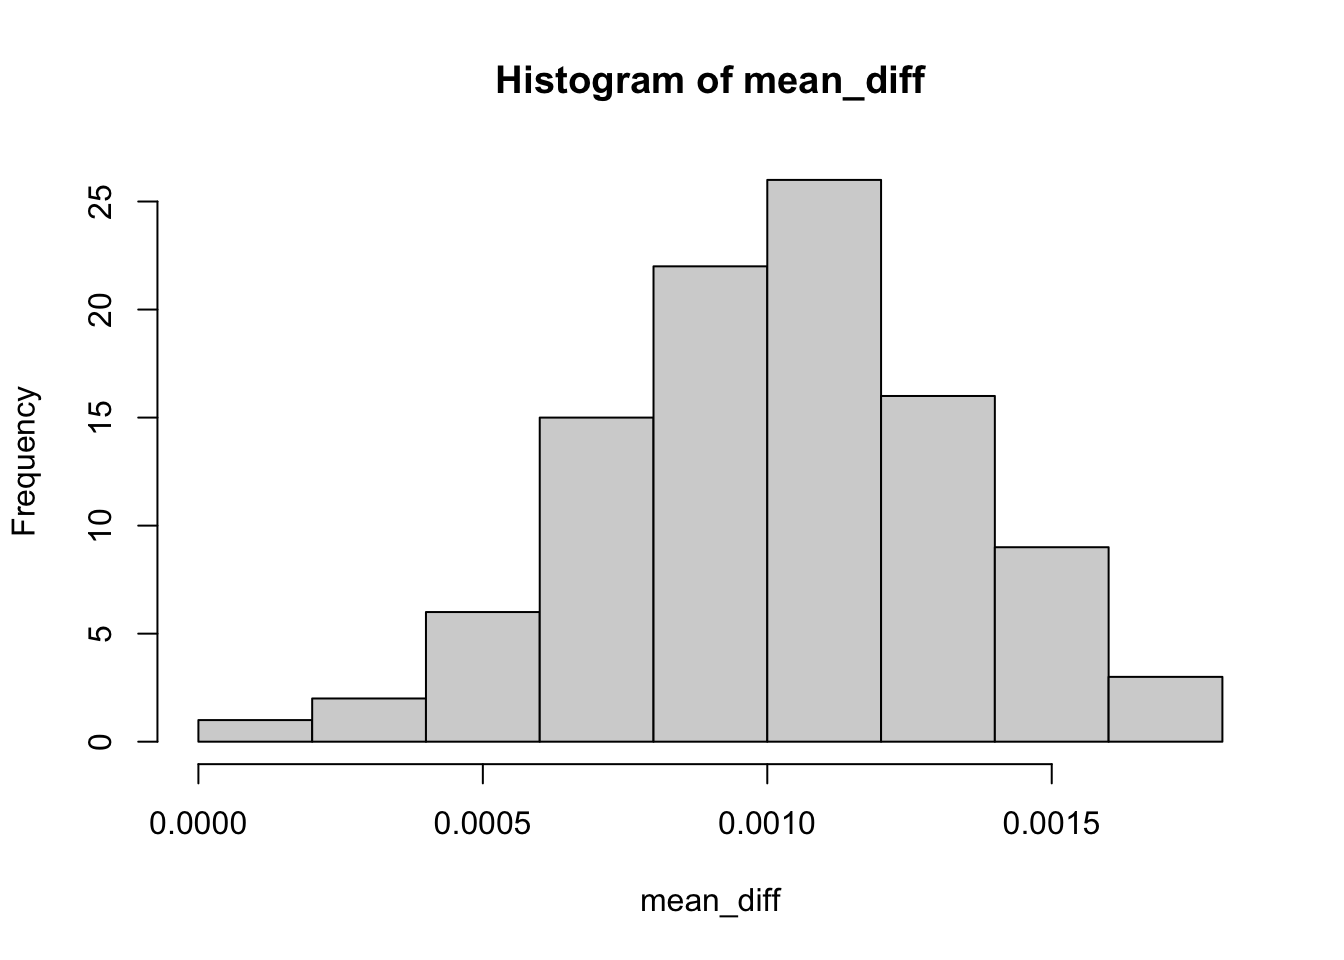
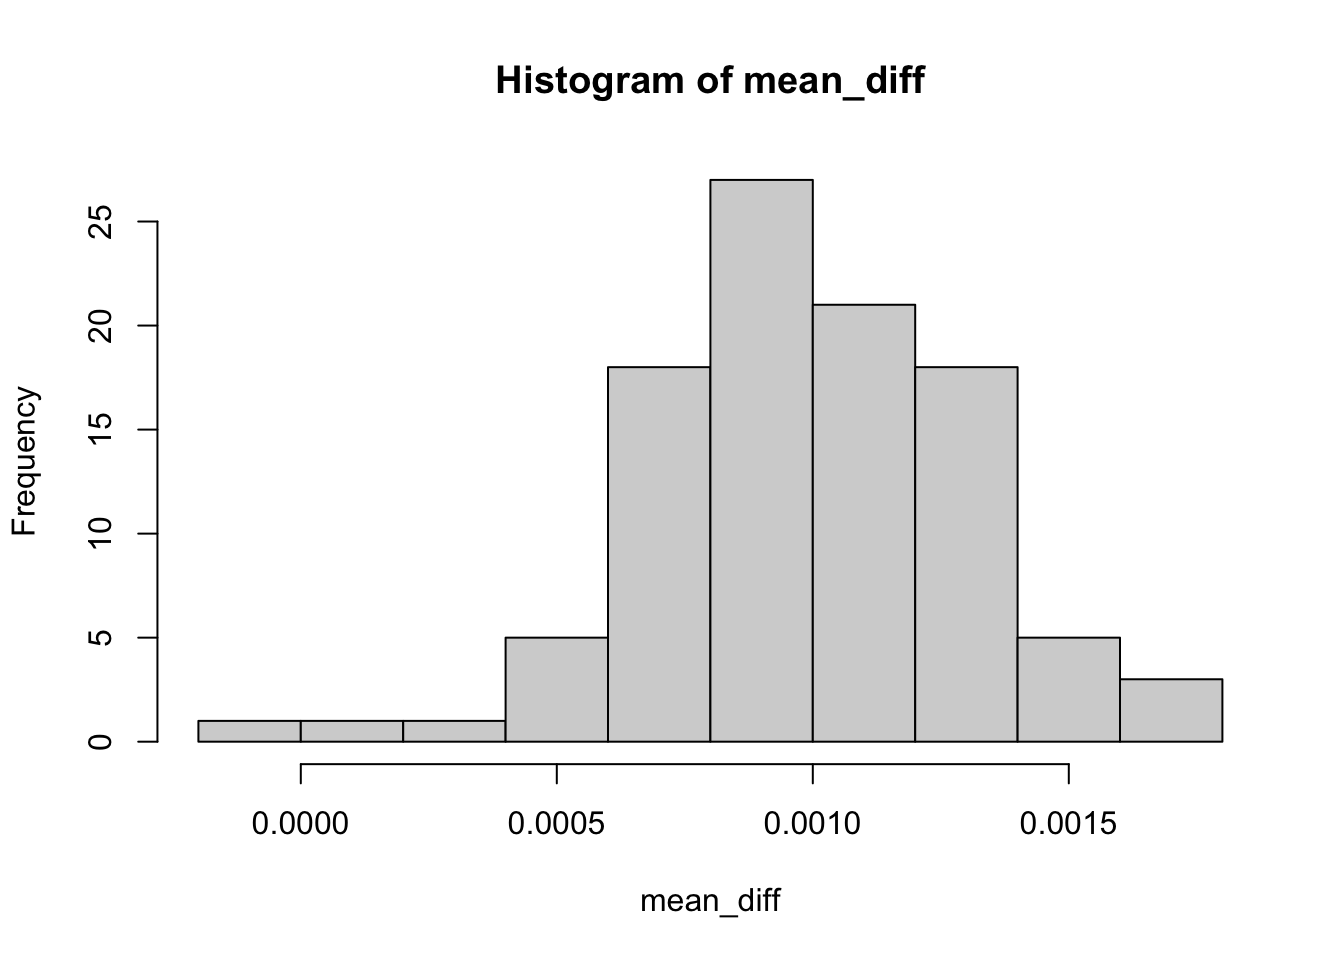
through end

diff --git a/content/post/2021-03-11-simulation.html b/content/post/2021-03-11-simulation.html
@@ -66,7 +66,7 @@ xfun::pkg_attach2(&quot;DiagrammeR&quot;)</code></pre>
 <p><span class="math display">\[Y \sim \mathrm{Binomial}(0.1)\]</span> To simulate one draw from this binomial distribution in R use:</p>
 <pre class="r"><code>control_y_1 &lt;- rbinom(n = 1, size = 1, prob = 0.1)
 control_y_1</code></pre>
-<pre><code>## [1] 0</code></pre>
+<pre><code>## [1] 1</code></pre>
 <p>Let’s walk through this code. <code>rbinom()</code> is the function to randomly (the <code>r</code> in <code>rbinom</code>) draw from the binomial distribution (<code>binom</code>). <code>n</code> is the number of draws for this simulation, <code>size</code> is the “number of trials”. Basically it means that you want the “success” outcome to be 1 and 0 otherwise. <code>prob</code> is the probability of “success”.</p>
 <p>It’s unlikely that we will run an A/B test with only one participant in the control group (this would be hilariously under-powered). So, let’s simulate a test with 2,000,000 draws<a href="#fn2" class="footnote-ref" id="fnref2"><sup>2</sup></a> and plot the results.</p>
 <pre class="r"><code># number of observations variable to ensure consistency across sims
@@ -123,7 +123,7 @@ plot_histogram(treatment_y, subtitle = &quot;Treatment Group&quot;)</code></pre>
 <p><img src="/post/2021-03-11-simulation_files/figure-html/unnamed-chunk-6-1.png" width="672" /></p>
 <p>Finally, we compare the means of the two groups:</p>
 <pre class="r"><code>mean(treatment_y) - mean(control_y) </code></pre>
-<pre><code>## [1] 0.000808</code></pre>
+<pre><code>## [1] 0.0012845</code></pre>
 <p>That’s one simulation. Let’s wrap it up in a function so it will be easy to run <span class="math inline">\(n\)</span> simulations</p>
 <pre class="r"><code># @param n integer number of draws per treatment arm
 # @param control_prob numeric probability of control success [0, 1]
@@ -141,7 +141,7 @@ one_sim &lt;- function(n, control_prob, rel_effect) {
 <p>Let’s test it to make sure it works.</p>
 <pre class="r"><code>one_sim(n = n_obs, control_prob = control_prob, 
         rel_effect = rel_effect)</code></pre>
-<pre><code>## [1] 0.0009145</code></pre>
+<pre><code>## [1] 0.0004635</code></pre>
 <p>This is very close to the true increase absolute of <code>0.001</code> (i.e. 1% of the <code>control_prob</code> of 0.1).</p>
 <hr />
 </div>
@@ -199,7 +199,7 @@ hist(mean_diff)</code></pre>
                                        rel_effect = rel_effect))
 )</code></pre>
 <pre><code>##    user  system elapsed 
-##   5.657   0.139   5.796</code></pre>
+##   5.660   0.148   5.809</code></pre>
 <p>I wrapped this call in <code>system.time()</code> so that we can keep track of how much computation time we spend on the call. Monte Carlo simulations are just doing the same thing over and over. This computation time can add up.</p>
 <p>We can see that the the <code>apply</code> version (above) in this case is pretty much as slow as the <code>for</code> loop (below).<a href="#fn6" class="footnote-ref" id="fnref6"><sup>6</sup></a></p>
 <pre class="r"><code>system.time(
@@ -209,7 +209,7 @@ hist(mean_diff)</code></pre>
   }
 )</code></pre>
 <pre><code>##    user  system elapsed 
-##   5.663   0.143   5.808</code></pre>
+##   5.660   0.131   5.792</code></pre>
 <p>So far we have been running all of our simulations in sequence. However, each simulation, by construction, is independent of the others. This is a perfect use case for parallelization.</p>
 <p>There is a <code>mc_replicate()</code> helper function (originally from the <a href="https://github.com/rmcelreath/rethinking"><em>rethinking</em></a> package) that makes this easy for the code we have written so far.</p>
 <pre class="r"><code>xfun::pkg_attach2(&quot;mcreplicate&quot;)
@@ -221,7 +221,7 @@ system.time(
               mc.cores = 4)
 )</code></pre>
 <pre><code>##    user  system elapsed 
-##   4.634   0.191   1.636</code></pre>
+##   3.100   0.120   1.651</code></pre>
 <p>As we would expect from running the simulations across 4 rather than one core, the <code>elapsed</code> time is faster with <code>mc_replicate()</code>. Note it is not 4 times faster in this case, because there is overhead in setting up the parallelization. With more samples we the overhead as a proportion of total computation time will decrease and we will approach 4x computation time.</p>
 <p>Finally, let’s see if the difference of means is a useful way of estimating the treatment effect for a binary outcome? Let’s run a few more simulations. We should see normally distributed difference of means centered on 0.001:</p>
 <pre class="r"><code>diff_means_1000 &lt;- mc_replicate(1e3, one_sim(n = n_obs, 

diff --git a/static/slides/get-json-html.html b/static/slides/get-json-html.html
@@ -996,14 +996,14 @@ grep('[A-Z]', base)
 
 | Character | Use                                                       |
 | --------- | --------------------------------------------------------- |
-| `$`       | characters at the end of the string                       |
-| `^`       | characters at the beginning of the string                 |
-| `?`       | zero or one of the preceding character                    |
-| `*`       | zero or more of the preceding character                   |
-| `+`       | one or more of the preceding character                    |
-| `\`       | escape character use to find strings that are expressions |
-| `.`       | any single character                                      |
-| `[ - ]`   | a range of characters                                     |
+| `$`       | characters at the **end** of the string                       |
+| `^`       | characters at the **beginning** of the string                 |
+| `?`       | **zero or one** of the preceding character                    |
+| `*`       | **zero or more** of the preceding character                   |
+| `+`       | **one or more** of the preceding character                    |
+| `\`       | **escape character** use to find strings that are expressions |
+| `.`       | any **single** character                                      |
+| `[ - ]`   | a **range** of characters                                     |
 
 ---
 
@@ -1061,7 +1061,7 @@ background-color: #FF8C03
 **Scrape** and **clean** the Medals Table from
 &lt;https://en.wikipedia.org/wiki/2012_Summer_Olympics_medal_table&gt;.
 
-Hint: it is the third `table` on the page.
+Hint: it is the fourth `table` on the page.
 
 Also, sort by total medals in **descending order**.
 

diff --git a/public/slides/get-tidy-data.html b/public/slides/get-tidy-data.html
@@ -905,6 +905,9 @@ natality %&gt;%
 
 # SQL Syntax walk through
 
+Assume we have two databases with the data as above for `alt_engergy` and `leg_violence`. 
+The following SQL query joins the "alt_energy" and "leg_violence" databases for the specific countries and years:
+
 ```sql
 SELECT *
 FROM alt_energy
@@ -913,6 +916,14 @@ ON alt_energy.iso2c = leg_violence.iso2c AND alt_energy.year = leg_violence.year
 WHERE (alt_energy.iso2c = 'DE' OR alt_energy.iso2c = 'KR') AND alt_energy.year &gt;= 2001
 LIMIT 100;
 ```
+
+- `*` selects all columns from both data sets. Specify specific columns with the (unquoted) names, separated by `,` commas.
+
+- `FROM` and `JOIN` specifies the base table and the one to join with it.
+
+- `WHERE` clause filters the results to include only specific rows.
+  
+- `LIMIT 100` limits the data returned to the first 100 rows (for convenience)
 
 ---
 
@@ -953,6 +964,7 @@ background-color: #FF8C03
 
 Download two data sets (that conceivable could be merged) using the API-based packages discussed today. Either in the same or a linked R script  **clean** and **merge** the data.
 
+And/Or set up GoogleBig Query and practice querying from the included example data sets. 
     </textarea>
 <style data-target="print-only">@media screen {.remark-slide-container{display:block;}.remark-slide-scaler{box-shadow:none;}}</style>
 <script src="https://remarkjs.com/downloads/remark-latest.min.js"></script>

diff --git a/content/post/2020-04-26-optional-r-basics-2.html b/content/post/2020-04-26-optional-r-basics-2.html
@@ -206,13 +206,13 @@ detectCores()</code></pre>
 <p>Let’s compute the mean of each vector in the list in parallel:</p>
 <pre class="r"><code>mclapply(three_list, mean, mc.cores = 3)</code></pre>
 <pre><code>## $A
-## [1] 0.8594047
+## [1] 0.8796006
 ## 
 ## $B
-## [1] 1.985035
+## [1] 2.085813
 ## 
 ## $C
-## [1] 4.952463</code></pre>
+## [1] 5.061066</code></pre>
 <p><code>mc.cores</code> sets the number of cores to use. Usually use 1 minus <em>n</em>, the number of cores you have available.</p>
 <p>For Windows, we need to use <code>parLapply()</code>. First create a cluster with <code>cl &lt;- makeCluster(cores = 2)</code> (for 2 cores) and then run the function.</p>
 </div>

diff --git a/public/post/syllabus/index.html b/public/post/syllabus/index.html
@@ -77,7 +77,7 @@
 <ul>
 <li>Introduction to reproducibility, data management, and automation in research</li>
 <li>File Organisation and Tidy Data Structures</li>
-<li>GET Tidy Data &ndash; [To ADD] into workshop: - Introduction to Relational Data Bases (SQL) [New]</li>
+<li>GET Tidy Data (including some SQL)</li>
 </ul>
 <p><strong>May 13 (9.00-17.00)</strong></p>
 <ul>

diff --git a/content/post/2020-04-26-syllabus.md b/content/post/2020-04-26-syllabus.md
@@ -60,7 +60,7 @@ Each day, we'll take 1 hour for lunch. At the end of the first day we'll catch u
 
 - Introduction to reproducibility, data management, and automation in research
 - File Organisation and Tidy Data Structures
-- GET Tidy Data -- [To ADD] into workshop: - Introduction to Relational Data Bases (SQL) [New]
+- GET Tidy Data (including some SQL)
 
 **May 13 (9.00-17.00)**
 
